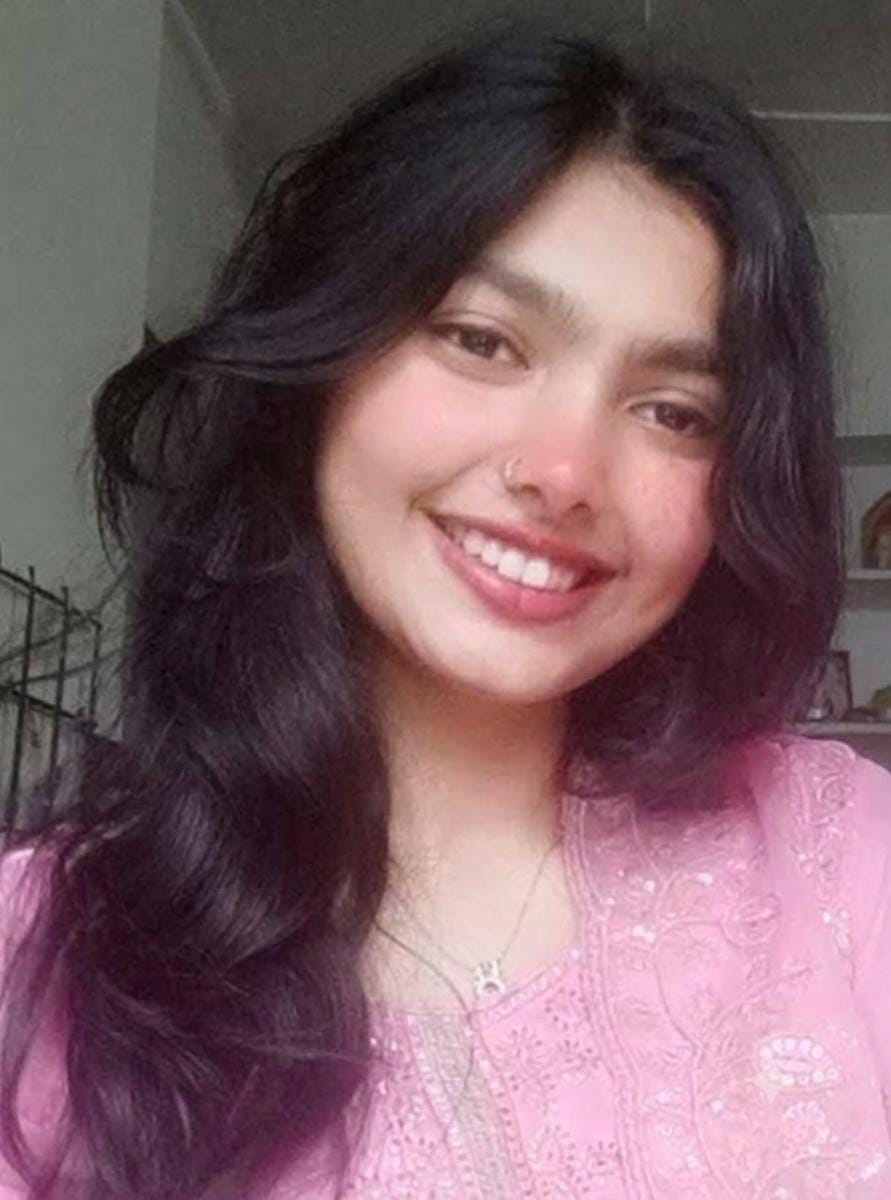
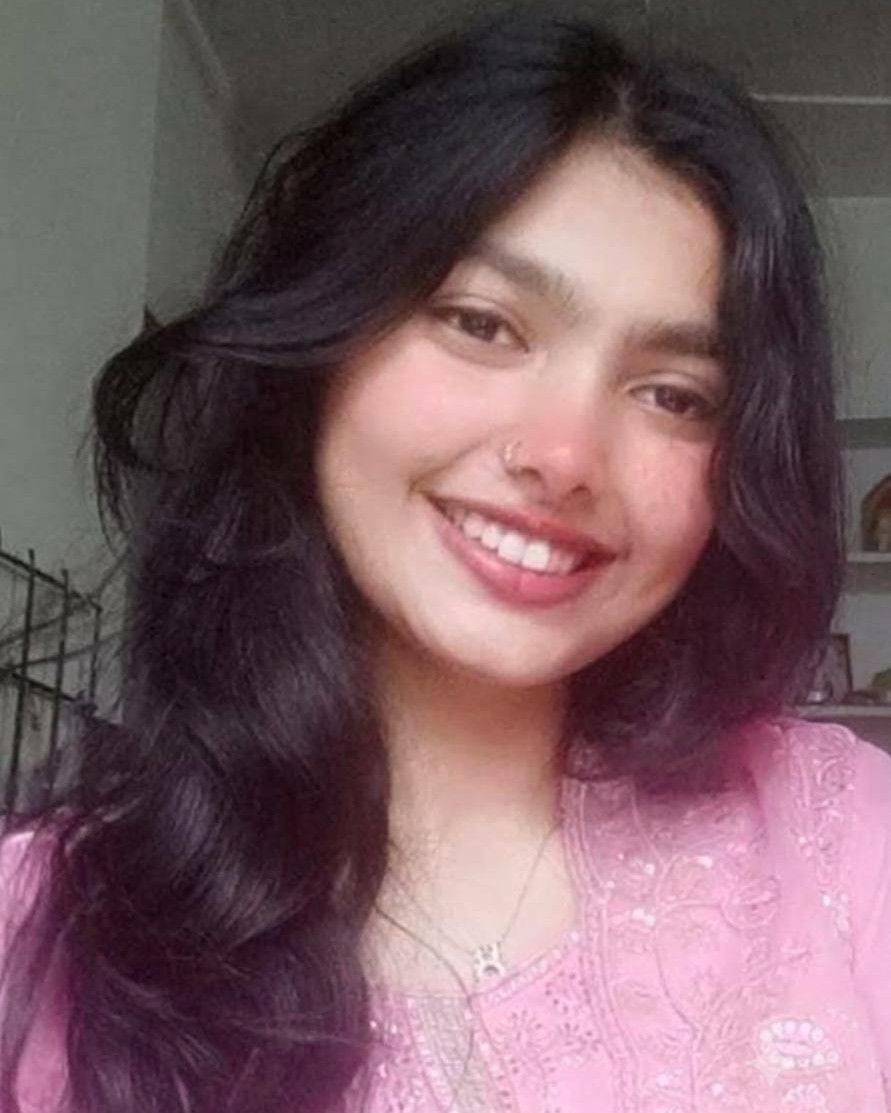
Changes

diff --git a/src/data/conference.ts b/src/data/conference.ts
@@ -1,5 +1,7 @@
-import dishikaPhoto from "@/assets/dishika-yadav.jpg.asset.json";
-import somyaPhoto from "@/assets/somya-yadav.jpg.asset.json";
+import dishikaPhoto from "@/assets/dishika-yadav.jpg";
+import somyaPhoto from "@/assets/somya-yadav.jpg";
+import adityaPhoto from "@/assets/aditya-kumar-singh.jpg";
+import aradhyaPhoto from "@/assets/aradhya-shakya.jpg";
 
 /**
  * AURELIUS MUN 2026 — editable conference content.
@@ -21,9 +23,9 @@ export const conference = {
     mapsUrl: "https://maps.app.goo.gl/NxR55zPxVSsmceJX9",
   },
   /** Replace with the real registration form URL when available. */
-  registrationUrl: "https://docs.google.com/forms/d/e/1FAIpQLSfAXWncjt242QcjeLV8uM3nzcVOlVTRBlRtHkkWCDu1hXyHqA/viewform?usp=sharing&ouid=112415953088803668529" as string | null,
+  registrationUrl: "https://forms.gle/9fzqvfCjLzcbPB68A" as string | null,
   /** External delegation registration form — must differ from the internal one. */
-  externalRegistrationUrl: "https://forms.gle/yiEn6Zb6C7E8i5rVA" as string | null,
+  externalRegistrationUrl: "https://forms.gle/9fzqvfCjLzcbPB68A" as string | null,
   delegateMatrixUrl: "https://docs.google.com/spreadsheets/d/1P31OodkUGvIXAeLv4JcECTeyZLyuD8zvDkso1D9GmWI/edit?usp=sharing",
   contact: {
     email: "aureliusjmcmun@gmail.com" as string | null,
@@ -119,10 +121,10 @@ export type Person = { name: string; role: string | null; photo: string | null }
 
 export const secretariat: Person[] = [
   { name: "Savio Jose", role: "Founder & Director General", photo: null },
-  { name: "Aditya Kumar Singh", role: "Founder & Secretary General", photo: null },
-  { name: "Aradhya Shakya", role: "Deputy Director General", photo: null },
-  { name: "Somya Yadav", role: "Director General of Academics", photo: somyaPhoto.url },
-  { name: "Dishika Yadav", role: "Director General of Operations", photo: dishikaPhoto.url },
+  { name: "Aditya Kumar Singh", role: "Founder & Secretary General", photo: adityaPhoto },
+  { name: "Aradhya Shakya", role: "Deputy Director General", photo: aradhyaPhoto },
+  { name: "Somya Yadav", role: "Director General of Academics", photo: somyaPhoto },
+  { name: "Dishika Yadav", role: "Director General of Operations", photo: dishikaPhoto },
 ];
 
 /** Add EB members per committee when announced, e.g. { committee: "UNGA", name: "...", role: "Chairperson", photo: null } */

diff --git a/src/routes/index.tsx b/src/routes/index.tsx
@@ -513,7 +513,7 @@ function Register() {
             {schoolDelegation.points.map((pt) => (
               <li key={pt} className="flex gap-3 text-ivory/70"><span className="text-gold" aria-hidden>—</span><span>{pt}</span></li>
             ))}
-            <li className="pt-4"><Button asChild variant="bare" className="btn-gold w-full sm:w-auto"><Link to="/school-delegation">Register Now <span aria-hidden>→</span></Link></Button></li>
+            <li className="pt-4"><Button asChild variant="bare" className="btn-gold w-full sm:w-auto"><a href={REG_URL} target="_blank" rel="noopener noreferrer">Register Now <span aria-hidden>→</span></a></Button></li>
           </ul>
         </div>
         <div className="mx-auto mt-6 max-w-5xl space-y-1 text-center text-xs text-ivory/50">
